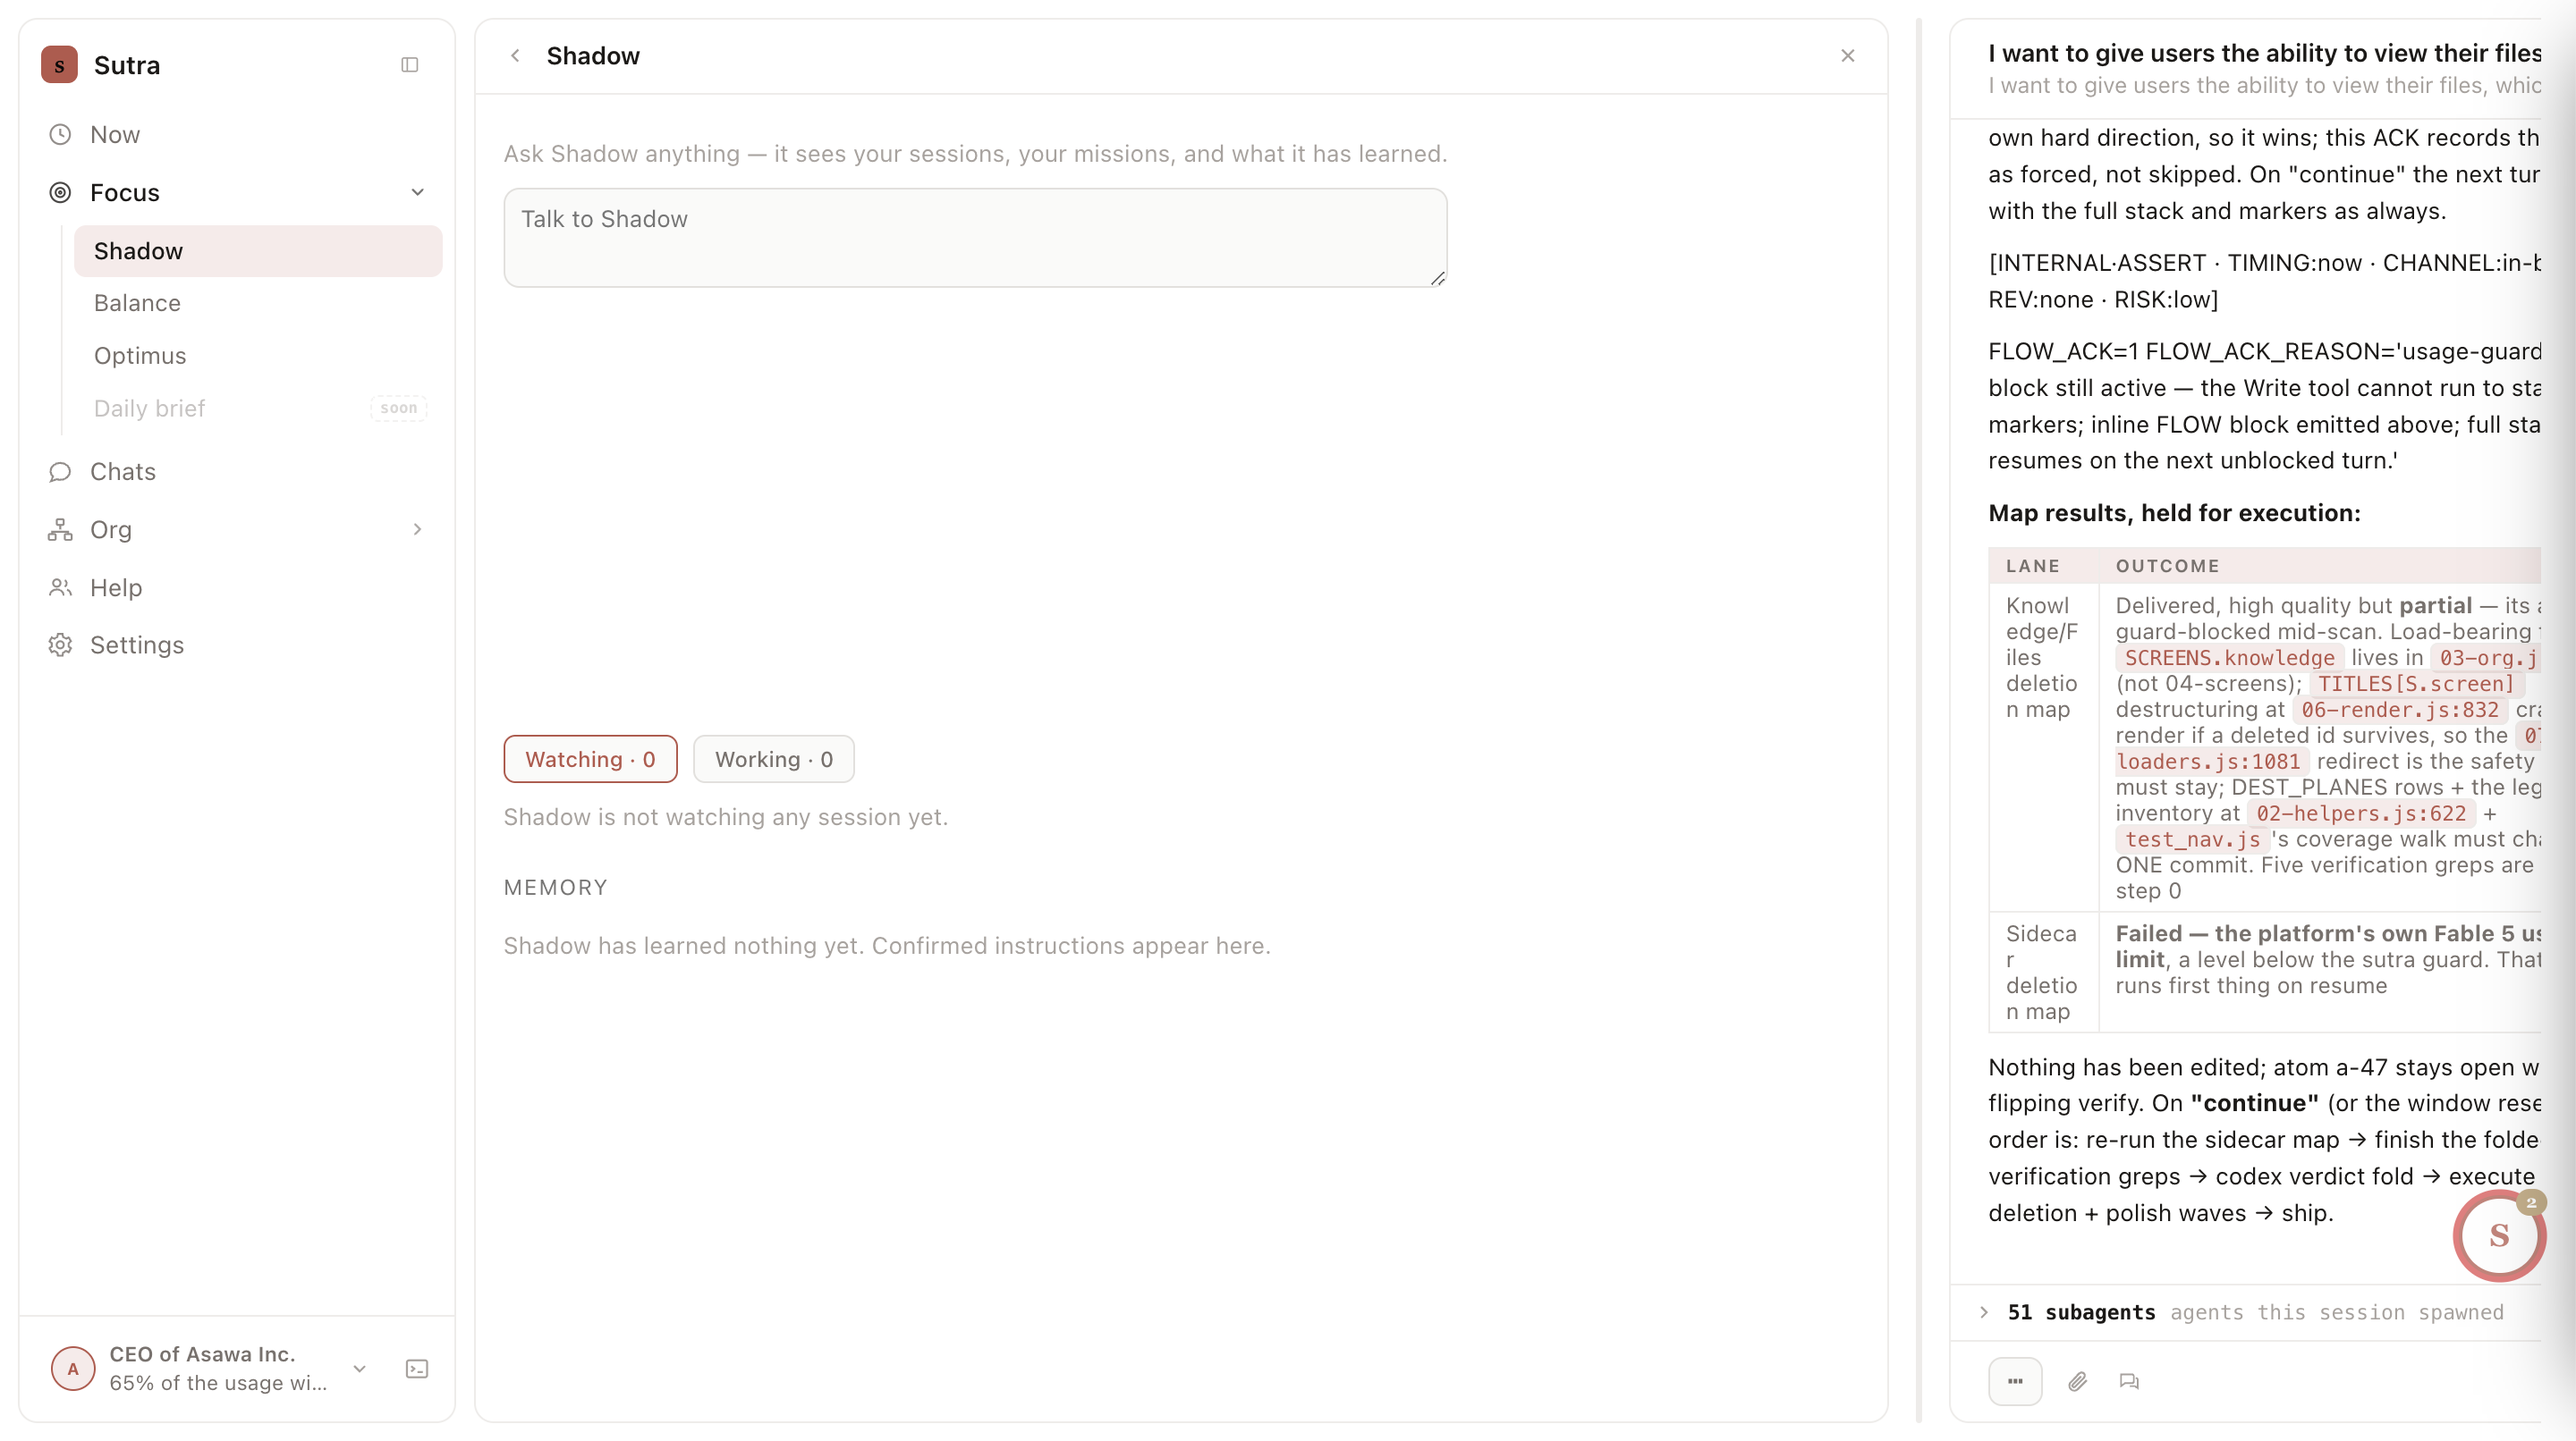
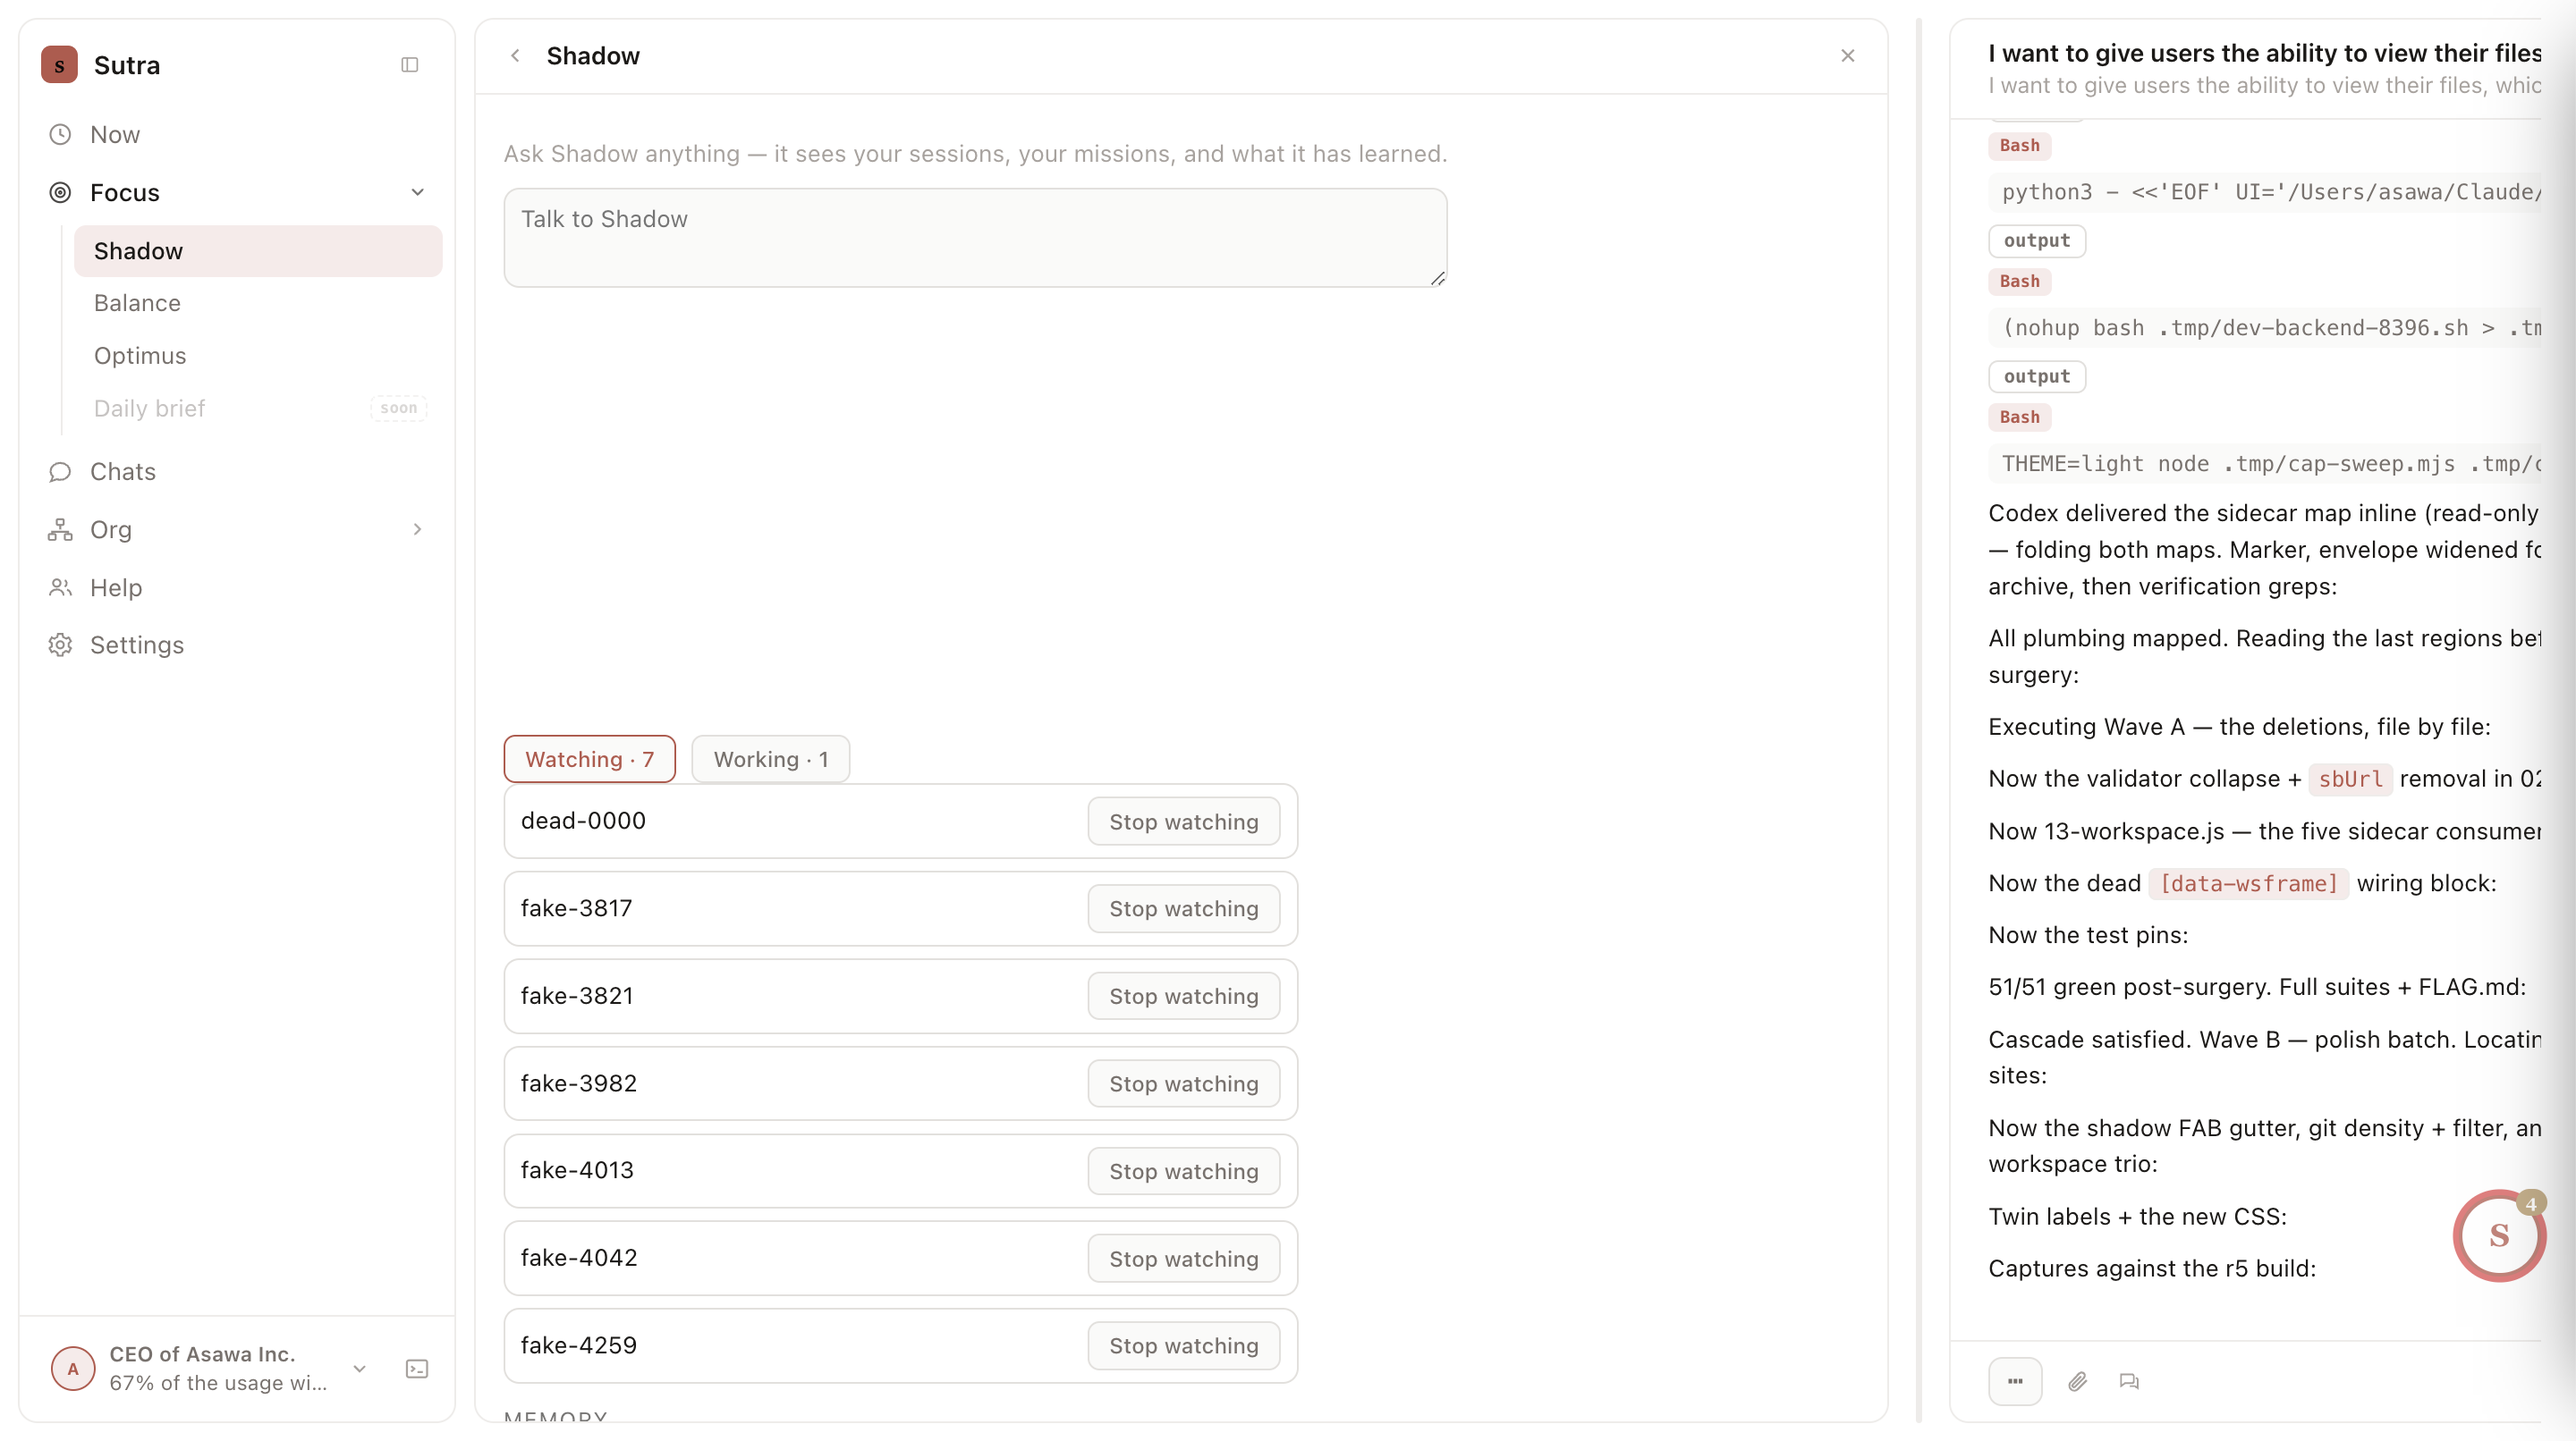
shadow: success feedback on every action + click-probe lane (real-mouse fidelity)
Founder report root-caused with REAL synthetic mouse clicks (CDP Input):
the click chain is healthy for tabs, mission actions and memory actions.
The felt gap was silent SUCCESS -- every home/overlay action now says it
worked (Stopped/Resumed/Retry queued/Watching/Confirmed/Revoked),
completing the failure nudges from the observations pass.
qa-shell/click-probe.mjs joins the lane family (capture-phase probes +
real-mouse dispatch; scrollIntoView + elementFromPoint so a below-fold
button is scrolled to, not clicked through).

diff --git a/marketplace/plugin/sutra-ui/static/js/16-shadow-home.js b/marketplace/plugin/sutra-ui/static/js/16-shadow-home.js
@@ -218,8 +218,9 @@ async function shadowWatchSet(sid, watch){
     /* the founder's dead-toggle fix: the BODY was the path string */
     const r = await shadowPost("/api/shadow/watches",
       { session_id: sid, watch: !!watch });
-    if (r && !r.ok && typeof showNudge === "function")
-      showNudge("The watch toggle did not stick \u2014 try again");
+    if (r && typeof showNudge === "function")
+      showNudge(!r.ok ? "The watch toggle did not stick \u2014 try again"
+        : (watch ? "Watching." : "Stopped watching."));
   } catch (e) {}
   loadShadowHome();
 }
@@ -229,8 +230,11 @@ async function shadowInstructionAct(id, action){
   try {
     /* same disease as the watch toggle: Confirm/Revoke never reached the API */
     const r = await shadowPost("/api/shadow/instructions", { id, action });
-    if (r && !r.ok && typeof showNudge === "function")
-      showNudge("That memory action did not stick \u2014 try again");
+    if (r && typeof showNudge === "function")
+      showNudge(!r.ok ? "That memory action did not stick \u2014 try again"
+        : (action === "confirm"
+            ? "Confirmed \u2014 Shadow applies it from its next boot."
+            : "Revoked \u2014 kept in the list, struck through."));
   } catch (e) {}
   loadShadowHome();
 }

diff --git a/marketplace/plugin/sutra-ui/static/js/15-shadow-overlay.js b/marketplace/plugin/sutra-ui/static/js/15-shadow-overlay.js
@@ -410,8 +410,13 @@ async function shadowMissionAct(mid, action, extra){
       /* survey fold: a failed action must never look like a dead click */
       showNudge("That did not stick (" + r.status + ") \u2014 try again");
     }
-    if (doc && action === "start_now" && typeof showNudge === "function"){
-      showNudge("Mission starting \u2014 follow it in Focus \u203a Shadow");
+    if (doc && typeof showNudge === "function"){
+      /* founder 2026-08-26: a working click must SAY it worked */
+      const said = { start_now: "Mission starting \u2014 follow it in "
+          + "Focus \u203a Shadow", stop: "Stopped.", resume: "Resumed.",
+        drop: "Dropped.", retry: "Retry queued \u2014 a fresh mission "
+          + "takes the same brief", confirm_check: "Check confirmed." };
+      showNudge(said[action] || "Done.");
     }
     if (typeof loadShadowHome === "function") loadShadowHome();
     renderShadowCard();
